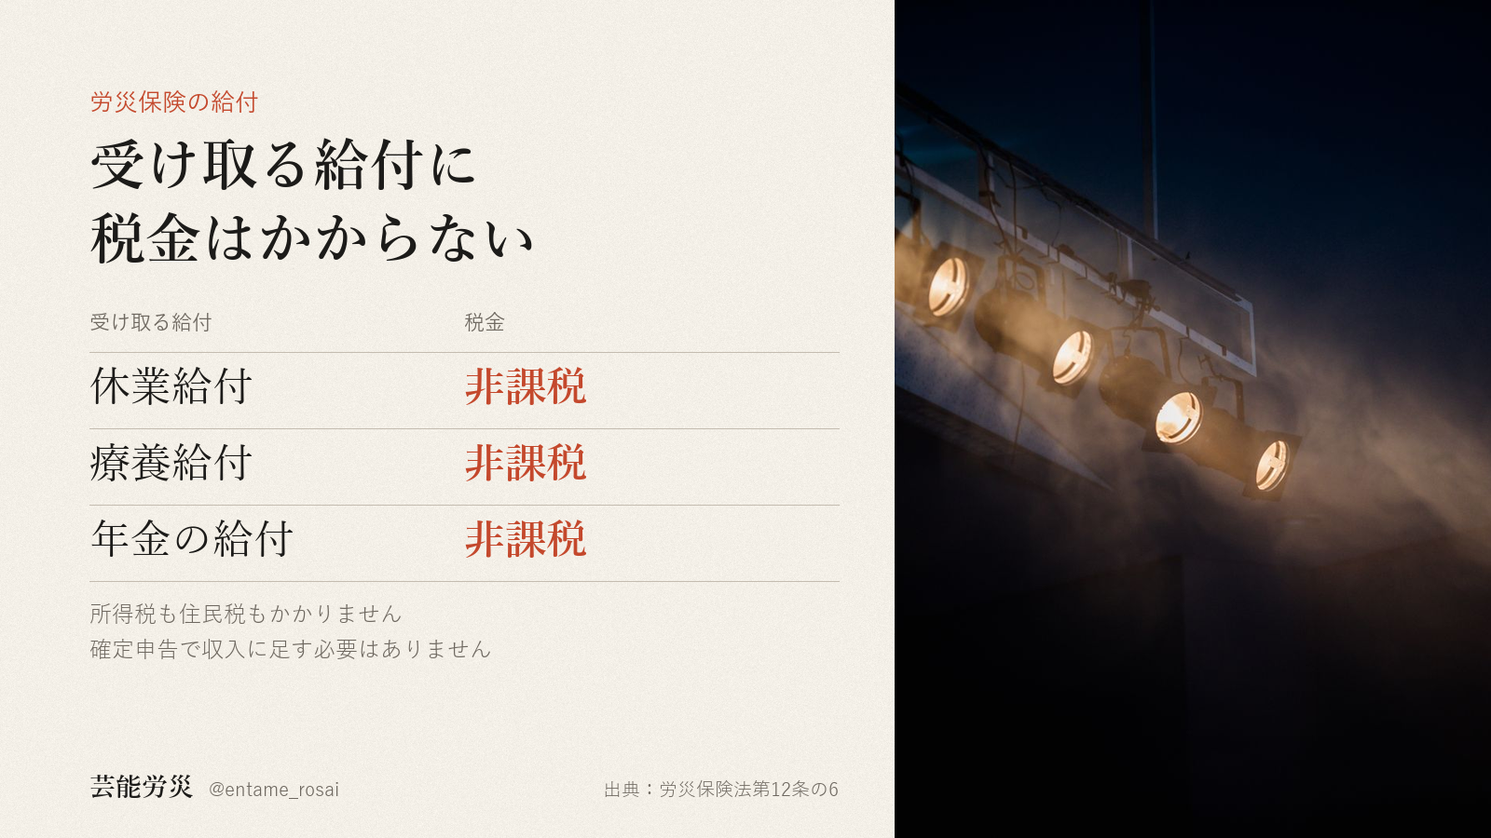
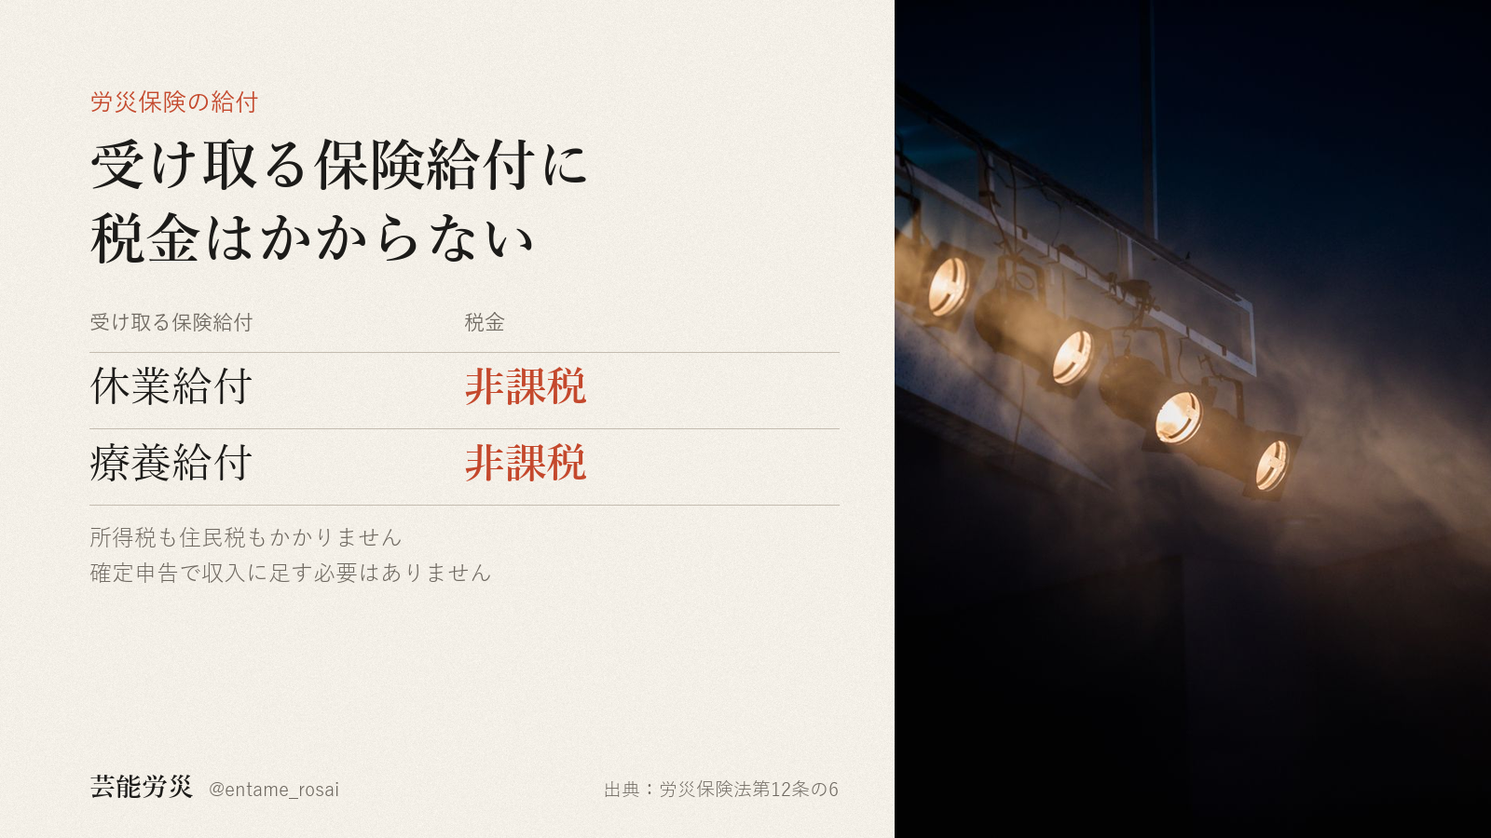
投稿デスク更新 2026-10-29

diff --git a/index.html b/index.html
@@ -351,7 +351,7 @@ dialog img{width:100%;height:auto;border-radius:18px;display:block}
 <div class="toast" id="toast">コピーしました</div>
 <dialog id="zoom"><img alt=""></dialog>
 
-<script id="desk-data" type="application/json">{"account":"@entame_rosai","days":[{"date":"2026-10-29","label":"10月29日（木）　今日","items":[{"key":"x","date":"2026-10-20","label":"X（@entame_rosai）","account":"@entame_rosai","text":"労災の特別加入は、何月から何か月間入るかを申込のときに選べます。給付基礎日額10,000円を選んだ場合、月1,600円（保険料912円、組合費500円、手数料188円）。初月だけ入会事務手数料2,000円が加わり、5か月なら総額10,000円です。（当団体の申込フォームの試算）","chars":139,"lines":1,"hashtags":0,"limit":140,"status":"（台帳に記載なし）","url":"","images":[{"name":"x_image.png","path":"assets/2026-10-20/x_image/x_image.png"}],"alt":"劇場の袖にある舞台監督の机。青いデスクライトの下にヘッドセットと進行表、腕時計があり、奥の舞台では俳優が演技している。画像の文字：加入する期間　何か月入るかを自分で選べる　加入する期間／支払総額　1か月 3,600円　3か月 6,800円　5か月 10,000円　給付基礎日額10,000円の場合 月1,600円　初月のみ入会事務手数料2,000円を含む　出典：当団体の申込フォームの試算　芸能労災 @entame_rosai","check":{"errors":[],"warns":[]},"made":"2026-10-20","slot":"2026-10-29"}]},{"date":"2026-10-30","label":"10月30日（金）　投稿予定","items":[{"key":"x","date":"2026-10-21","label":"X（@entame_rosai）","account":"@entame_rosai","text":"労災の特別加入は、芸能なら保険料率が一律0.3%。俳優もダンサーもスタントも同じで、審査も割増もありません。日額10,000円を選んだ場合、月1,600円（保険料912円、組合費500円、手数料188円）、初月に入会事務手数料2,000円。（徴収法施行規則・当団体申込フォーム）","chars":139,"lines":1,"hashtags":0,"limit":140,"status":"（台帳に記載なし）","url":"","images":[{"name":"x_image.png","path":"assets/2026-10-21/x_image/x_image.png"}],"alt":"右半分は、青空の下で屋外ステージのトラスに吊られた照明機材を見上げた写真。左半分は生成り色の紙の上に文字。「芸能の特別加入の保険料率」「0.3%」「俳優もダンサーもスタントも 同じ率で 審査も割増もない」「給付基礎日額10,000円の場合 月1,600円」「初月のみ入会事務手数料2,000円」「芸能労災 @entame_rosai」「出典：徴収法施行規則／当団体申込フォーム」","check":{"errors":[],"warns":["競合の調査由来かもしれない数字/語: 0.3%　… 労災の特別加入は、芸能なら保険料率が一律0.3%。俳優もダンサーもスタントも同じで、審査も割増もありませ…"]},"made":"2026-10-21","slot":"2026-10-30"}]},{"date":"2026-10-31","label":"10月31日（土）　投稿予定","items":[{"key":"x","date":"2026-10-22","label":"X（@entame_rosai）","account":"@entame_rosai","text":"給付基礎日額は3,500円から25,000円の16段階から、自分で選べます。けがで働けない日の給付は選んだ日額の80%（休業4日目から）。日額10,000円なら1日8,000円で、費用は月1,600円＋初月に入会事務手数料2,000円。（厚労省・当団体申込フォーム）","chars":133,"lines":1,"hashtags":0,"limit":140,"status":"（台帳に記載なし）","url":"","images":[{"name":"x_image.png","path":"assets/2026-10-22/x_image/x_image.png"}],"alt":"右半分は、暗い舞台に紫色のスポットライトが3つ斜めに差し込み、床に光の輪が落ちている写真。左半分は生成り色の紙の上に文字。「給付基礎日額」「日額は 自分で選べる」「選べる幅 16段階」「いちばん低い日額 3,500円」「いちばん高い日額 25,000円」「働けない日の給付 日額の80%」「日額10,000円なら1日8,000円（休業4日目から）」「費用は月1,600円 初月のみ入会事務手数料2,000円」「芸能労災 @entame_rosai」「出典：厚労省／当団体申込フォーム」","check":{"errors":[],"warns":[]},"made":"2026-10-22","slot":"2026-10-31"}]},{"date":"2026-11-01","label":"11月1日（日）　投稿予定","items":[{"key":"x","date":"2026-10-23","label":"X（@entame_rosai）","account":"@entame_rosai","text":"労災保険には、介護の給付もあります。障がいや傷病の年金が1級、または2級の一部で、いま介護を受けている人に支給されます。家族が介護している場合も対象です。入院中や、特別養護老人ホームなどに入所中は対象外です。特別加入した表現者も受けられます。（労災保険法 第19条の2）","chars":135,"lines":1,"hashtags":0,"limit":140,"status":"（台帳に記載なし）","url":"","images":[{"name":"x_image.png","path":"assets/2026-10-23/x_image/x_image.png"}],"alt":"右半分はライブハウスの客席後方で、音響担当の人が両手でミキサー卓のつまみを操作している写真。奥のステージではギターを持った演者がスポットライトを浴び、観客が立って見ている。左半分は紙の地に文字。「労災保険の給付」「介護の給付もあります」「障がいや傷病の年金が1級または2級の一部で、いま介護を受けている人に支給されます」「家族が介護している場合も対象」「入院中や特別養護老人ホームなどに入所中は対象外」「芸能労災 @entame_rosai」「出典：労災保険法 第19条の2」","check":{"errors":[],"warns":[]},"made":"2026-10-23","slot":"2026-11-01"}]},{"date":"2026-11-02","label":"11月2日（月）　投稿予定","items":[{"key":"x","date":"2026-10-25","label":"X（@entame_rosai）","account":"@entame_rosai","text":"労災の特別加入には、けがが治ったあとも障がいが残ったときの給付があります。等級は1級から14級で、1〜7級は年金、8〜14級は一時金です。給付基礎日額10,000円を選んだ場合、1級は年313万円、7級は年131万円、14級は一時金56万円です。（労災保険法 別表第1・第2）","chars":138,"lines":1,"hashtags":0,"limit":140,"status":"（台帳に記載なし）","url":"","images":[{"name":"x_image.png","path":"assets/2026-10-25/x_image/x_image.png"}],"alt":"夕方の光が差し込む、鏡とバーのあるダンススタジオの写真。左側に表。労災保険の給付。障がいが残ったとき。等級、日額10,000円の場合。1級（年金）年313万円。7級（年金）年131万円。14級（一時金）56万円。1級から7級は年金、8級から14級は一時金。金額は選んだ給付基礎日額で決まります。芸能労災 @entame_rosai。出典：労災保険法 別表第1・第2","check":{"errors":[],"warns":[]},"made":"2026-10-25","slot":"2026-11-02"}]},{"date":"2026-11-03","label":"11月3日（火）　投稿予定","items":[{"key":"x","date":"2026-10-26","label":"X（@entame_rosai）","account":"@entame_rosai","text":"労災の特別加入の保険料は、確定申告で社会保険料控除の対象です。日額10,000円を選んだ場合、月の支払い1,600円のうち保険料912円の部分です（ほかに入会時のみ2,000円）。けがで受け取る給付は非課税です。（所得税法第74条・労災保険法第12条の6）","chars":128,"lines":1,"hashtags":0,"limit":140,"status":"（台帳に記載なし）","url":"","images":[{"name":"x_image.png","path":"assets/2026-10-26/x_image/x_image.png"}],"alt":"右側は、薄暗い稽古場の床に座り、足首にテーピングを巻いているダンサーの後ろ姿の写真。左側の紙面に文字。「労災の特別加入と税金」「払うときも受け取るときも」。左の列「毎月の支払い　月1,600円　うち保険料912円が　控除の対象」。右の列「受け取る給付　けがの補償　所得税は　非課税」。注記「日額10,000円を選んだ場合　ほかに入会時のみ2,000円」。出典「所得税法第74条・労災保険法第12条の6」。芸能労災 @entame_rosai","check":{"errors":[],"warns":[]},"made":"2026-10-26","slot":"2026-11-03"}]},{"date":"2026-11-04","label":"11月4日（水）　投稿予定","items":[{"key":"x","date":"2026-10-27","label":"X（@entame_rosai）","account":"@entame_rosai","text":"仕事中のけがの治療費は、労災の特別加入なら療養（補償）給付で出ます。労災指定の医療機関なら窓口での負担はなく、指定外でいったん払った分もあとで請求できます。治るまで、期間や金額の上限はありません。通院も入院も、薬代も対象です。（労災保険法第13条・厚生労働省）","chars":130,"lines":1,"hashtags":0,"limit":140,"status":"（台帳に記載なし）","url":"","images":[{"name":"x_image.png","path":"assets/2026-10-27/x_image/x_image.png"}],"alt":"右半分は、軍手をはめた両手が黒い舞台の床にテープを貼っている写真。左半分は生成りの紙の上に文字。「労災保険の給付」「治療費に上限はない」「仕事中のけがの治療は　治るまで療養給付で　通院も入院も薬代も対象」「労災指定の医療機関なら窓口負担なし　指定外で払った分はあとで請求できます」「出典：労災保険法第13条・厚生労働省」「芸能労災 @entame_rosai」","check":{"errors":[],"warns":[]},"made":"2026-10-27","slot":"2026-11-04"}]},{"date":"2026-11-05","label":"11月5日（木）　投稿予定","items":[{"key":"x","date":"2026-10-29","label":"X（@entame_rosai）","account":"@entame_rosai","text":"労災の特別加入で受け取る給付には、所得税も住民税もかかりません。けがで休んだ日の休業給付も、治療の療養給付も非課税です。確定申告で収入に足す必要はありません。（労災保険法第12条の6）","chars":92,"lines":1,"hashtags":0,"limit":140,"status":"（台帳に記載なし）","url":"","images":[{"name":"x_image.png","path":"assets/2026-10-29/x_image/x_image.png"}],"alt":"左は生成りの紙の上に文字、右は暗い劇場の天井に並ぶ4灯のスポットライトがスモークの中で光る写真。文字は「労災保険の給付　受け取る給付に税金はかからない　受け取る給付／税金　休業給付　非課税　療養給付　非課税　年金の給付　非課税　所得税も住民税もかかりません　確定申告で収入に足す必要はありません　芸能労災 @entame_rosai　出典：労災保険法第12条の6」","check":{"errors":[],"warns":[]},"made":"2026-10-29","slot":"2026-11-05"}]}],"todo":[{"due":"今日","who":"作業者","title":"X（@entame_rosai）の今日の投稿","detail":"画像1枚を添付 → 代替テキストを入れる → 本文を貼る、の順。代替テキストは直近の投稿で入っていません。X は投稿後に足せません。","cid":"c-2026-10-20-x"},{"due":"未公開のまま","who":"矢部さん","title":"note の記事を公開（09/18作成）","detail":"このデスクには載っていません（note は矢部さんの手元の下書き）。公開するときは見出し画像を必ず設定。","cid":""},{"due":"未公開のまま","who":"矢部さん","title":"note の記事を公開（10/09作成）","detail":"このデスクには載っていません（note は矢部さんの手元の下書き）。公開するときは見出し画像を必ず設定。","cid":""},{"due":"投稿のたび","who":"作業者","title":"投稿URLと名前を、そのカードの欄に保存","detail":"記録が集まらないと、何が出たかを後から確かめられません。","cid":""}],"builtAt":"2026-10-29 17:10","today":"2026-10-29","followers":{"date":"10-13","x":5,"ig":21,"note":0},"hero":"assets/hero.jpg","endpoint":"https://script.google.com/macros/s/AKfycbxhxM75PszpPOX_HDJ4yuBmQSqu1b7CXq2sbCxlqTZ_TyF8hROH2MyKnYNU11avb8UQCA/exec"}</script>
+<script id="desk-data" type="application/json">{"account":"@entame_rosai","days":[{"date":"2026-10-29","label":"10月29日（木）　今日","items":[{"key":"x","date":"2026-10-20","label":"X（@entame_rosai）","account":"@entame_rosai","text":"労災の特別加入は、何月から何か月間入るかを申込のときに選べます。給付基礎日額10,000円を選んだ場合、月1,600円（保険料912円、組合費500円、手数料188円）。初月だけ入会事務手数料2,000円が加わり、5か月なら総額10,000円です。（当団体の申込フォームの試算）","chars":139,"lines":1,"hashtags":0,"limit":140,"status":"（台帳に記載なし）","url":"","images":[{"name":"x_image.png","path":"assets/2026-10-20/x_image/x_image.png"}],"alt":"劇場の袖にある舞台監督の机。青いデスクライトの下にヘッドセットと進行表、腕時計があり、奥の舞台では俳優が演技している。画像の文字：加入する期間　何か月入るかを自分で選べる　加入する期間／支払総額　1か月 3,600円　3か月 6,800円　5か月 10,000円　給付基礎日額10,000円の場合 月1,600円　初月のみ入会事務手数料2,000円を含む　出典：当団体の申込フォームの試算　芸能労災 @entame_rosai","check":{"errors":[],"warns":[]},"made":"2026-10-20","slot":"2026-10-29"}]},{"date":"2026-10-30","label":"10月30日（金）　投稿予定","items":[{"key":"x","date":"2026-10-21","label":"X（@entame_rosai）","account":"@entame_rosai","text":"労災の特別加入は、芸能なら保険料率が一律0.3%。俳優もダンサーもスタントも同じで、審査も割増もありません。日額10,000円を選んだ場合、月1,600円（保険料912円、組合費500円、手数料188円）、初月に入会事務手数料2,000円。（徴収法施行規則・当団体申込フォーム）","chars":139,"lines":1,"hashtags":0,"limit":140,"status":"（台帳に記載なし）","url":"","images":[{"name":"x_image.png","path":"assets/2026-10-21/x_image/x_image.png"}],"alt":"右半分は、青空の下で屋外ステージのトラスに吊られた照明機材を見上げた写真。左半分は生成り色の紙の上に文字。「芸能の特別加入の保険料率」「0.3%」「俳優もダンサーもスタントも 同じ率で 審査も割増もない」「給付基礎日額10,000円の場合 月1,600円」「初月のみ入会事務手数料2,000円」「芸能労災 @entame_rosai」「出典：徴収法施行規則／当団体申込フォーム」","check":{"errors":[],"warns":["競合の調査由来かもしれない数字/語: 0.3%　… 労災の特別加入は、芸能なら保険料率が一律0.3%。俳優もダンサーもスタントも同じで、審査も割増もありませ…"]},"made":"2026-10-21","slot":"2026-10-30"}]},{"date":"2026-10-31","label":"10月31日（土）　投稿予定","items":[{"key":"x","date":"2026-10-22","label":"X（@entame_rosai）","account":"@entame_rosai","text":"給付基礎日額は3,500円から25,000円の16段階から、自分で選べます。けがで働けない日の給付は選んだ日額の80%（休業4日目から）。日額10,000円なら1日8,000円で、費用は月1,600円＋初月に入会事務手数料2,000円。（厚労省・当団体申込フォーム）","chars":133,"lines":1,"hashtags":0,"limit":140,"status":"（台帳に記載なし）","url":"","images":[{"name":"x_image.png","path":"assets/2026-10-22/x_image/x_image.png"}],"alt":"右半分は、暗い舞台に紫色のスポットライトが3つ斜めに差し込み、床に光の輪が落ちている写真。左半分は生成り色の紙の上に文字。「給付基礎日額」「日額は 自分で選べる」「選べる幅 16段階」「いちばん低い日額 3,500円」「いちばん高い日額 25,000円」「働けない日の給付 日額の80%」「日額10,000円なら1日8,000円（休業4日目から）」「費用は月1,600円 初月のみ入会事務手数料2,000円」「芸能労災 @entame_rosai」「出典：厚労省／当団体申込フォーム」","check":{"errors":[],"warns":[]},"made":"2026-10-22","slot":"2026-10-31"}]},{"date":"2026-11-01","label":"11月1日（日）　投稿予定","items":[{"key":"x","date":"2026-10-23","label":"X（@entame_rosai）","account":"@entame_rosai","text":"労災保険には、介護の給付もあります。障がいや傷病の年金が1級、または2級の一部で、いま介護を受けている人に支給されます。家族が介護している場合も対象です。入院中や、特別養護老人ホームなどに入所中は対象外です。特別加入した表現者も受けられます。（労災保険法 第19条の2）","chars":135,"lines":1,"hashtags":0,"limit":140,"status":"（台帳に記載なし）","url":"","images":[{"name":"x_image.png","path":"assets/2026-10-23/x_image/x_image.png"}],"alt":"右半分はライブハウスの客席後方で、音響担当の人が両手でミキサー卓のつまみを操作している写真。奥のステージではギターを持った演者がスポットライトを浴び、観客が立って見ている。左半分は紙の地に文字。「労災保険の給付」「介護の給付もあります」「障がいや傷病の年金が1級または2級の一部で、いま介護を受けている人に支給されます」「家族が介護している場合も対象」「入院中や特別養護老人ホームなどに入所中は対象外」「芸能労災 @entame_rosai」「出典：労災保険法 第19条の2」","check":{"errors":[],"warns":[]},"made":"2026-10-23","slot":"2026-11-01"}]},{"date":"2026-11-02","label":"11月2日（月）　投稿予定","items":[{"key":"x","date":"2026-10-25","label":"X（@entame_rosai）","account":"@entame_rosai","text":"労災の特別加入には、けがが治ったあとも障がいが残ったときの給付があります。等級は1級から14級で、1〜7級は年金、8〜14級は一時金です。給付基礎日額10,000円を選んだ場合、1級は年313万円、7級は年131万円、14級は一時金56万円です。（労災保険法 別表第1・第2）","chars":138,"lines":1,"hashtags":0,"limit":140,"status":"（台帳に記載なし）","url":"","images":[{"name":"x_image.png","path":"assets/2026-10-25/x_image/x_image.png"}],"alt":"夕方の光が差し込む、鏡とバーのあるダンススタジオの写真。左側に表。労災保険の給付。障がいが残ったとき。等級、日額10,000円の場合。1級（年金）年313万円。7級（年金）年131万円。14級（一時金）56万円。1級から7級は年金、8級から14級は一時金。金額は選んだ給付基礎日額で決まります。芸能労災 @entame_rosai。出典：労災保険法 別表第1・第2","check":{"errors":[],"warns":[]},"made":"2026-10-25","slot":"2026-11-02"}]},{"date":"2026-11-03","label":"11月3日（火）　投稿予定","items":[{"key":"x","date":"2026-10-26","label":"X（@entame_rosai）","account":"@entame_rosai","text":"労災の特別加入の保険料は、確定申告で社会保険料控除の対象です。日額10,000円を選んだ場合、月の支払い1,600円のうち保険料912円の部分です（ほかに入会時のみ2,000円）。けがで受け取る給付は非課税です。（所得税法第74条・労災保険法第12条の6）","chars":128,"lines":1,"hashtags":0,"limit":140,"status":"（台帳に記載なし）","url":"","images":[{"name":"x_image.png","path":"assets/2026-10-26/x_image/x_image.png"}],"alt":"右側は、薄暗い稽古場の床に座り、足首にテーピングを巻いているダンサーの後ろ姿の写真。左側の紙面に文字。「労災の特別加入と税金」「払うときも受け取るときも」。左の列「毎月の支払い　月1,600円　うち保険料912円が　控除の対象」。右の列「受け取る給付　けがの補償　所得税は　非課税」。注記「日額10,000円を選んだ場合　ほかに入会時のみ2,000円」。出典「所得税法第74条・労災保険法第12条の6」。芸能労災 @entame_rosai","check":{"errors":[],"warns":[]},"made":"2026-10-26","slot":"2026-11-03"}]},{"date":"2026-11-04","label":"11月4日（水）　投稿予定","items":[{"key":"x","date":"2026-10-27","label":"X（@entame_rosai）","account":"@entame_rosai","text":"仕事中のけがの治療費は、労災の特別加入なら療養（補償）給付で出ます。労災指定の医療機関なら窓口での負担はなく、指定外でいったん払った分もあとで請求できます。治るまで、期間や金額の上限はありません。通院も入院も、薬代も対象です。（労災保険法第13条・厚生労働省）","chars":130,"lines":1,"hashtags":0,"limit":140,"status":"（台帳に記載なし）","url":"","images":[{"name":"x_image.png","path":"assets/2026-10-27/x_image/x_image.png"}],"alt":"右半分は、軍手をはめた両手が黒い舞台の床にテープを貼っている写真。左半分は生成りの紙の上に文字。「労災保険の給付」「治療費に上限はない」「仕事中のけがの治療は　治るまで療養給付で　通院も入院も薬代も対象」「労災指定の医療機関なら窓口負担なし　指定外で払った分はあとで請求できます」「出典：労災保険法第13条・厚生労働省」「芸能労災 @entame_rosai」","check":{"errors":[],"warns":[]},"made":"2026-10-27","slot":"2026-11-04"}]},{"date":"2026-11-05","label":"11月5日（木）　投稿予定","items":[{"key":"x","date":"2026-10-29","label":"X（@entame_rosai）","account":"@entame_rosai","text":"労災の特別加入で受け取る保険給付には、所得税も住民税もかかりません。けがで休んだ日の休業給付も、治療の療養給付も非課税です。確定申告で収入に足す必要はありません。（労災保険法第12条の6）","chars":94,"lines":1,"hashtags":0,"limit":140,"status":"（台帳に記載なし）","url":"","images":[{"name":"x_image.png","path":"assets/2026-10-29/x_image/x_image.png"}],"alt":"左は生成りの紙の上に文字、右は暗がりの照明バーに並ぶ4灯のスポットライトがスモークの中で光る写真。文字は「労災保険の給付　受け取る保険給付に税金はかからない　受け取る保険給付／税金　休業給付　非課税　療養給付　非課税　所得税も住民税もかかりません　確定申告で収入に足す必要はありません　芸能労災 @entame_rosai　出典：労災保険法第12条の6」","check":{"errors":[],"warns":[]},"made":"2026-10-29","slot":"2026-11-05"}]}],"todo":[{"due":"今日","who":"作業者","title":"X（@entame_rosai）の今日の投稿","detail":"画像1枚を添付 → 代替テキストを入れる → 本文を貼る、の順。代替テキストは直近の投稿で入っていません。X は投稿後に足せません。","cid":"c-2026-10-20-x"},{"due":"未公開のまま","who":"矢部さん","title":"note の記事を公開（09/18作成）","detail":"このデスクには載っていません（note は矢部さんの手元の下書き）。公開するときは見出し画像を必ず設定。","cid":""},{"due":"未公開のまま","who":"矢部さん","title":"note の記事を公開（10/09作成）","detail":"このデスクには載っていません（note は矢部さんの手元の下書き）。公開するときは見出し画像を必ず設定。","cid":""},{"due":"投稿のたび","who":"作業者","title":"投稿URLと名前を、そのカードの欄に保存","detail":"記録が集まらないと、何が出たかを後から確かめられません。","cid":""}],"builtAt":"2026-10-29 17:11","today":"2026-10-29","followers":{"date":"10-13","x":5,"ig":21,"note":0},"hero":"assets/hero.jpg","endpoint":"https://script.google.com/macros/s/AKfycbxhxM75PszpPOX_HDJ4yuBmQSqu1b7CXq2sbCxlqTZ_TyF8hROH2MyKnYNU11avb8UQCA/exec"}</script>
 <script>
 (function(){
   var DATA = JSON.parse(document.getElementById('desk-data').textContent);
